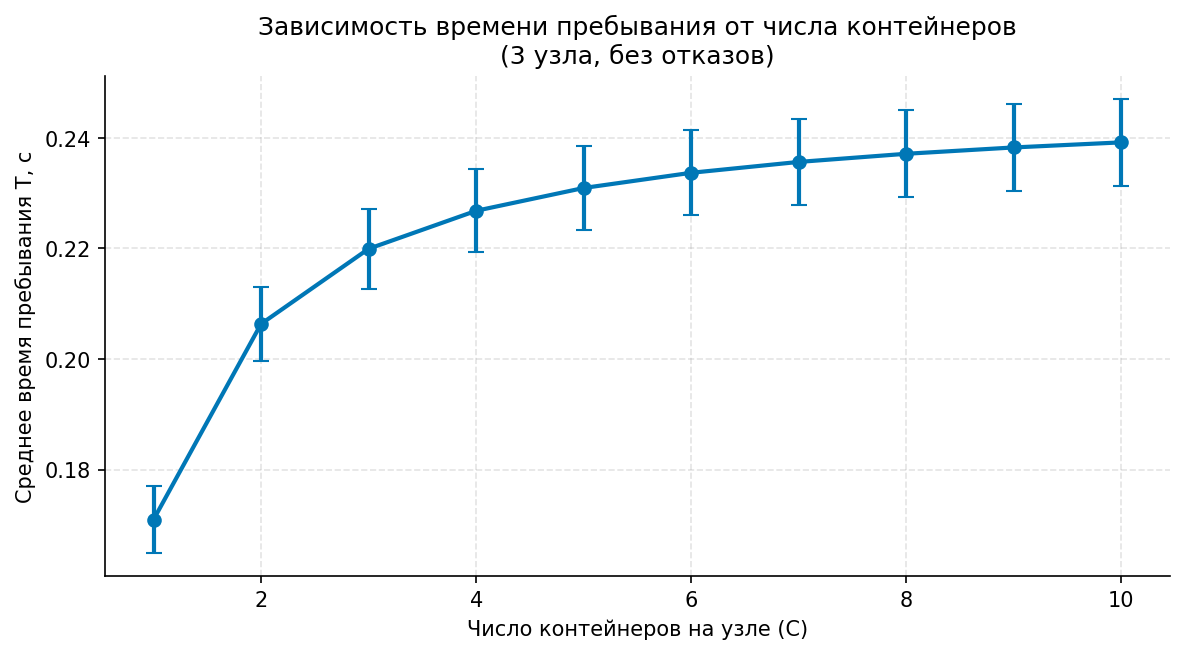
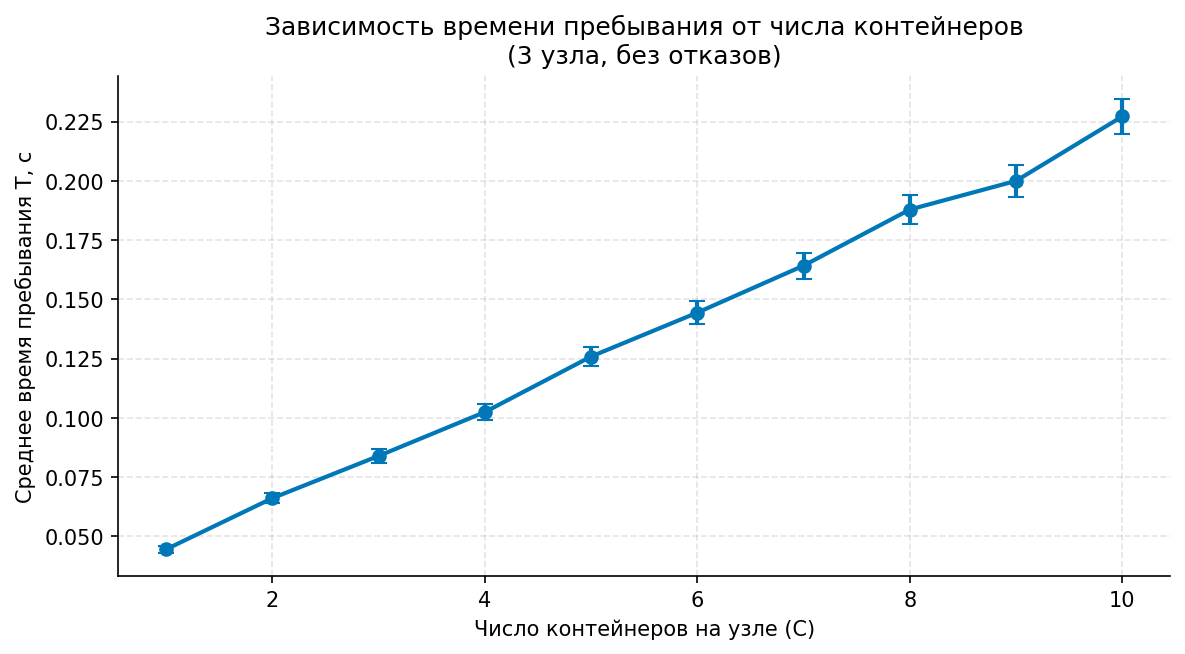
refactor

diff --git a/simulator_v2.py b/simulator_v2.py
@@ -31,26 +31,68 @@ NodeFailureType = Literal["down", "degrade", "none"]
 
 # ─────────────────────────────────────────
 # Таблица интенсивности обслуживания
-# (из статьи Фунг/Богатырёв, табл. 1)
-# μ(n, m) — интенсивность при n контейнерах всего, m активных
-# Упрощённая модель: μ(m) = μ_base / (1 + α*(C-m)/C)
-# где α — коэффициент деградации из-за конкуренции за ресурсы
+# μ(n, m) — экспериментальные данные из:
+# Фунг В.К., Богатырёв В.А., До М.К.
+# «Имитационная модель вычислительного кластера с контейнерной виртуализацией»
+# Вестник ВКИТ, 2025, т.22, №8, с.3-12. Табл. 1.
+#
+# Индексация: MU_TABLE[n-1][m-1], где n — всего контейнеров, m — активных (m ≤ n)
+# None означает недопустимую комбинацию (m > n)
 # ─────────────────────────────────────────
 
-def container_service_rate(base_rate: float, n_total: int, m_active: int, alpha: float = 0.5) -> float:
+MU_TABLE = [
+    # n=1:  m=1
+    [22.305],
+    # n=2:  m=1      m=2
+    [22.248, 14.968],
+    # n=3:  m=1      m=2      m=3
+    [22.242, 13.426, 11.788],
+    # n=4:  m=1      m=2      m=3      m=4
+    [22.131, 12.836, 10.473,  9.611],
+    # n=5:  m=1      m=2      m=3      m=4      m=5
+    [22.137, 12.452,  9.801,  8.667,   7.825],
+    # n=6:  m=1      m=2      m=3      m=4      m=5      m=6
+    [22.097, 12.276,  9.410,  8.041,   7.294,   6.809],
+    # n=7:  m=1      m=2      m=3      m=4      m=5      m=6      m=7
+    [22.073, 12.047,  8.999,  7.767,   6.762,   6.333,   5.981],
+    # n=8:  m=1      m=2      m=3      m=4      m=5      m=6      m=7      m=8
+    [21.989, 11.997,  8.939,  7.472,   6.616,   5.890,   5.598,   5.208],
+    # n=9:  m=1  ... m=9
+    [21.957, 11.806,  8.590,  7.175,   6.143,   5.744,   5.363,   4.973,  4.886],
+    # n=10: m=1  ... m=10
+    [21.930, 11.658,  8.641,  6.936,   6.159,   5.566,   5.095,   4.711,  4.439,  4.296],
+]
+
+
+def container_service_rate(base_rate: float, n_total: int, m_active: int,
+                            alpha: float = 0.5) -> float:
     """
     Интенсивность обслуживания одного активного контейнера.
-    При большем числе активных контейнеров — ниже из-за разделения ресурсов.
+
+    Значение берётся из экспериментальной таблицы μ(n, m) [Фунг и др., 2025].
+    Параметр base_rate используется только как масштабный коэффициент:
+    если n_total выходит за пределы таблицы или base_rate отличается от
+    табличного μ₀=22.242 (при n=3, m=1), результат масштабируется.
+
+    n_total:  общее число контейнеров на узле (n)
+    m_active: текущее число активных контейнеров (m)
     base_rate: базовая интенсивность при одном активном контейнере
-    n_total:   общее число контейнеров на узле
-    m_active:  текущее число активных контейнеров
-    alpha:     коэффициент снижения (0 = нет деградации, 1 = линейная)
+               (используется для масштабирования относительно таблицы)
+    alpha:    не используется — оставлен для совместимости сигнатуры
     """
     if m_active <= 0:
         return 0.0
-    # Нелинейное снижение как в эксперименте статьи
-    rate = base_rate * (1.0 / (1.0 + alpha * (m_active - 1) / n_total))
-    return max(rate, base_rate * 0.1)
+
+    n = max(1, min(n_total, len(MU_TABLE)))          # ограничиваем диапазоном таблицы
+    m = max(1, min(m_active, len(MU_TABLE[n - 1])))  # m не может превышать n
+
+    mu_table_value = MU_TABLE[n - 1][m - 1]
+
+    # Масштабируем относительно табличного μ₀(n,1) если base_rate отличается
+    mu_table_base = MU_TABLE[n - 1][0]  # μ(n, 1) для данного n
+    scale = base_rate / mu_table_base if mu_table_base > 0 else 1.0
+
+    return mu_table_value * scale
 
 
 # ─────────────────────────────────────────
@@ -66,8 +108,8 @@ class SimConfigV2:
 
     # Входной поток
     arrival_rate:        float = 3.0    # λ (задач/с)
-    base_service_rate:   float = 6.0    # базовая μ контейнера (задач/с)
-    alpha_resource:      float = 0.5    # коэффициент конкуренции за ресурсы
+    base_service_rate:   float = 22.242 # базовая μ при m=1, μ(3,1) из табл. Фунг и др. 2025
+    # alpha_resource убран: интенсивность берётся из таблицы μ(n,m) без подбора параметров
 
     # Время симуляции
     sim_time:            float = 500.0
@@ -289,8 +331,7 @@ class Node:
         rate = container_service_rate(
             self.cfg.base_service_rate,
             self.cfg.containers_per_node,
-            m_active,
-            self.cfg.alpha_resource
+            m_active
         )
 
         # Применяем degrade узла

diff --git a/experiments_v2.py b/experiments_v2.py
@@ -29,7 +29,7 @@ def exp_containers_sojourn() -> pd.DataFrame:
             num_nodes           = 3,
             containers_per_node = c,
             arrival_rate        = 3.0,
-            base_service_rate   = 6.0,
+            base_service_rate   = 22.242,  # μ(3,1) из таблицы Фунг и др. 2025
             sim_time            = 500.0,
             balance_policy      = "round_robin",
         )
@@ -51,7 +51,7 @@ def exp_balance_with_containers() -> pd.DataFrame:
             num_nodes           = 3,
             containers_per_node = 3,
             arrival_rate        = 3.0,
-            base_service_rate   = 6.0,
+            base_service_rate   = 22.242,  # μ(3,1) из таблицы Фунг и др. 2025
             sim_time            = 500.0,
             balance_policy      = policy,
             node_failure_type   = "down",
@@ -76,7 +76,7 @@ def exp_node_failure_types() -> pd.DataFrame:
             num_nodes           = 3,
             containers_per_node = 3,
             arrival_rate        = 3.0,
-            base_service_rate   = 6.0,
+            base_service_rate   = 22.242,  # μ(3,1) из таблицы Фунг и др. 2025
             sim_time            = 500.0,
             balance_policy      = "round_robin",
             node_failure_type   = ftype,
@@ -103,7 +103,7 @@ def exp_container_failures() -> pd.DataFrame:
             num_nodes           = 3,
             containers_per_node = 3,
             arrival_rate        = 3.0,
-            base_service_rate   = 6.0,
+            base_service_rate   = 22.242,  # μ(3,1) из таблицы Фунг и др. 2025
             sim_time            = 500.0,
             balance_policy      = "round_robin",
             container_mttf      = 50.0,
@@ -127,7 +127,7 @@ def exp_node_mttf() -> pd.DataFrame:
             num_nodes           = 3,
             containers_per_node = 3,
             arrival_rate        = 3.0,
-            base_service_rate   = 6.0,
+            base_service_rate   = 22.242,  # μ(3,1) из таблицы Фунг и др. 2025
             sim_time            = 500.0,
             balance_policy      = "round_robin",
             node_failure_type   = "down",
@@ -159,7 +159,7 @@ def exp_combined_failures() -> pd.DataFrame:
             num_nodes           = 3,
             containers_per_node = 3,
             arrival_rate        = 3.0,
-            base_service_rate   = 6.0,
+            base_service_rate   = 22.242,  # μ(3,1) из таблицы Фунг и др. 2025
             sim_time            = 500.0,
             balance_policy      = "round_robin",
             node_failure_type   = "down",
